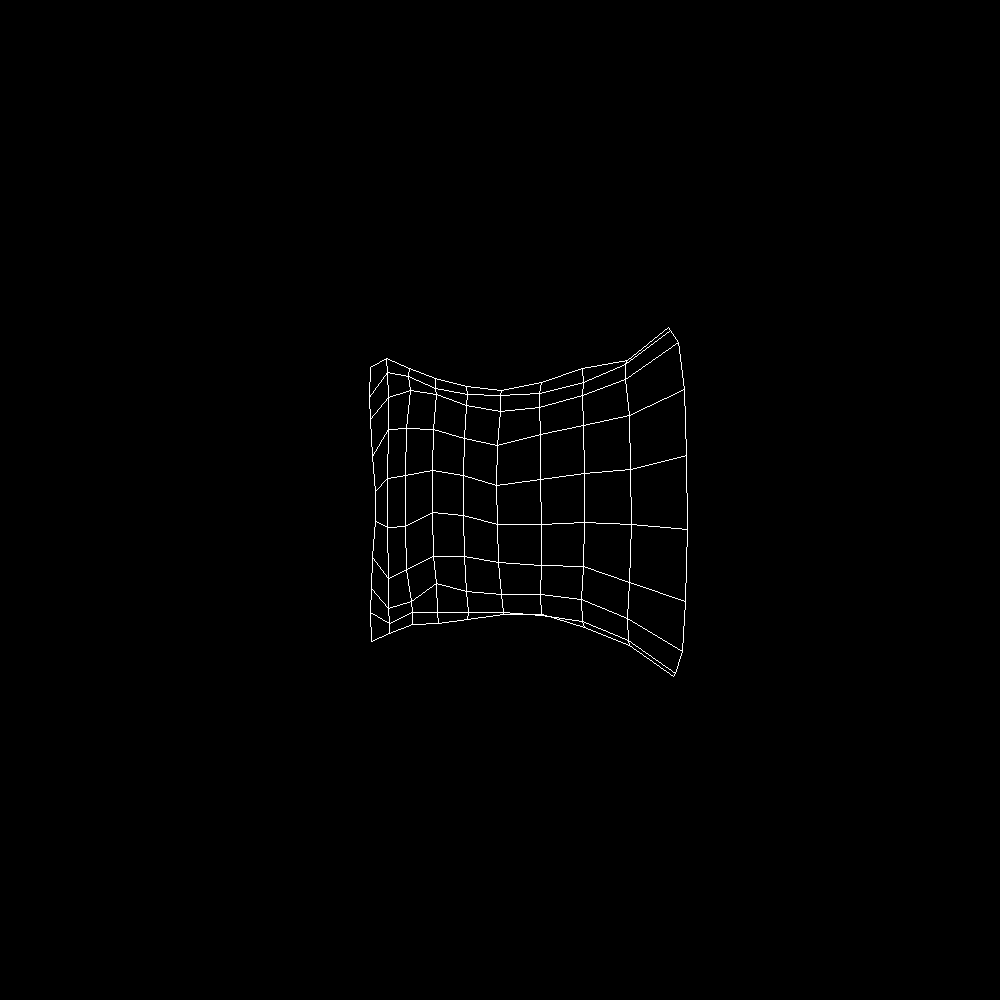
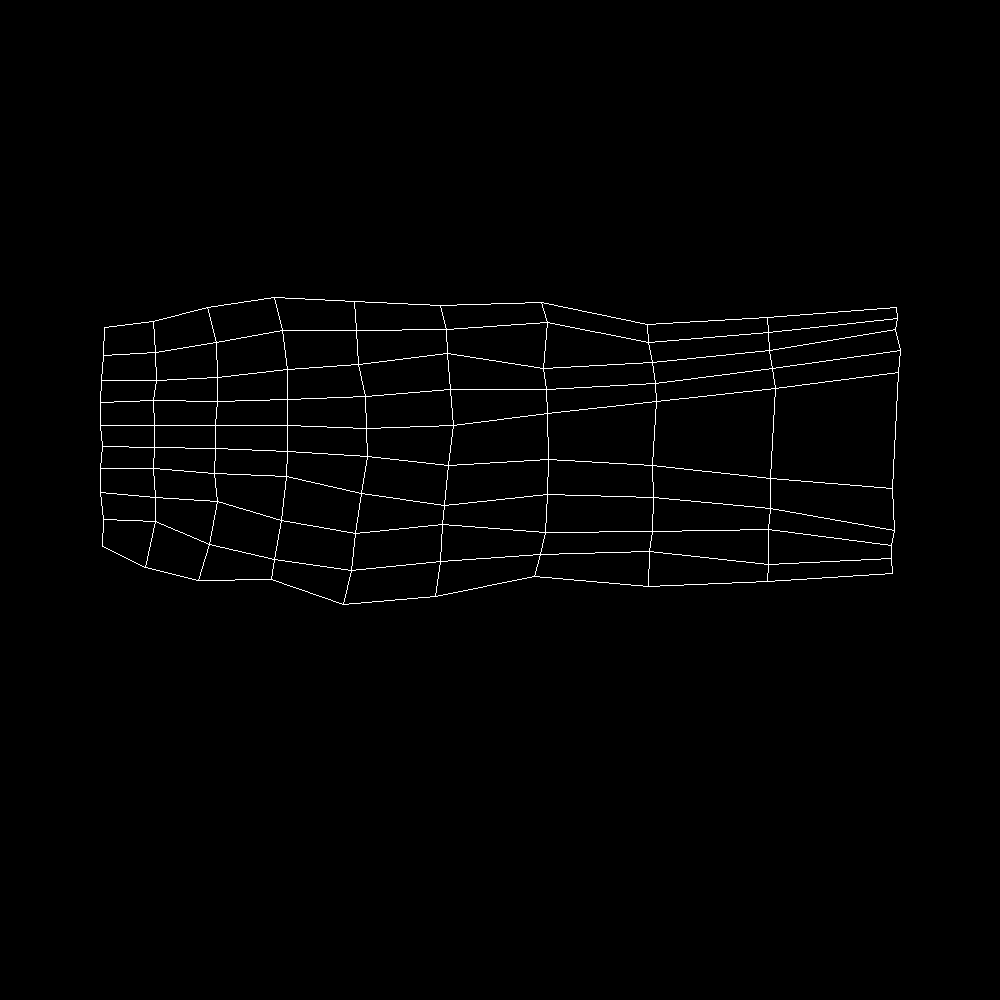
final

diff --git a/main.cpp b/main.cpp
@@ -18,6 +18,7 @@ void Draw2DManifold(Mat &dataMatrix, char const * name, int nSamplesI, int nSamp
 Mat reducePCA(Mat &dataMatrix, unsigned int dim);
 Mat reduceIsomap(Mat &dataMatrix, unsigned int dim);
 Mat reduceLLE(Mat &dataMatrix, unsigned int dim);
+template<typename T> T minLch(T a, T b);
 
 int main(int argc, char** argv)
 {
@@ -42,12 +43,12 @@ int main(int argc, char** argv)
 	Draw3DManifold(dataMatrix, "3D Points",nSamplesI,nSamplesJ);
 	
 	// PCA
-	//Mat dataPCA = reducePCA(dataMatrix,2);
-	//Draw2DManifold(dataPCA,"PCA",nSamplesI,nSamplesJ);
+	Mat dataPCA = reducePCA(dataMatrix,2);
+	Draw2DManifold(dataPCA,"PCA",nSamplesI,nSamplesJ);
 	
 	// Isomap
-	//Mat dataIsomap = reduceIsomap(dataMatrix,2);
-	//Draw2DManifold(dataIsomap,"ISOMAP",nSamplesI,nSamplesJ);
+	Mat dataIsomap = reduceIsomap(dataMatrix,2);
+	Draw2DManifold(dataIsomap,"ISOMAP",nSamplesI,nSamplesJ);
 	
 	//LLE
 	//Mat dataLLE = reduceLLE(dataMatrix,2);
@@ -61,7 +62,39 @@ int main(int argc, char** argv)
 
 Mat reducePCA(Mat &dataMatrix, unsigned int dim)
 {
-	return dataMatrix;
+	Mat PCAmat = dataMatrix.clone();
+	// SALIENT: NORMALIZATION!!
+	//cout << PCAmat << endl;
+	//cout << mean(PCAmat) << endl;
+	Mat PCAnorm;
+	reduce(PCAmat, PCAnorm, 0, CV_REDUCE_AVG);
+	//cout << PCAnorm << endl;
+	Mat tmp(dataMatrix.rows, 1, CV_64F);
+	tmp.setTo(1);	//set all to 1
+	PCAnorm = tmp*PCAnorm;
+	//cout << PCAnorm << endl;
+	PCAmat = PCAmat - PCAnorm;
+	//cout << PCAmat << endl;
+	SVD Proc(PCAmat);	// SVD decomposition
+	Mat umat = Proc.u;	// get U and W
+	Mat wmat = Proc.w;
+	//cout << "src size:" << dataMatrix.size() << endl;
+	//cout << "u size:" << umat << endl;
+	//cout << "w size:" << wmat << endl;
+	Mat wprime(dim, dim, CV_64F);	// extract U' and W'
+	Mat uprime(PCAmat.rows, dim, CV_64F);
+	wprime.setTo(0);
+	uprime.setTo(0);
+	wprime = Mat::diag(wmat.rowRange(0,dim));
+	uprime = umat.colRange(0, dim);
+	//cout << "u':" << uprime << endl << "w':" << wprime << endl;
+	PCAmat = uprime*wprime;
+	//cout << "lower dim size:" << PCAmat.size() << endl;
+	//cout << "PCAmat:" << PCAmat << endl;
+	// scale mat to (-0.5,0.5) for display....that is why I love python more...
+	normalize(PCAmat, PCAmat,0.4,-0.4,NORM_MINMAX);
+	//cout << PCAmat << endl;
+	return PCAmat;
 }
 
 Mat reduceLLE(Mat &dataMatrix, unsigned int dim)
@@ -71,7 +104,91 @@ Mat reduceLLE(Mat &dataMatrix, unsigned int dim)
 
 Mat reduceIsomap(Mat &dataMatrix, unsigned int dim)
 {
-	return dataMatrix;
+	// form distance matrix
+	int KNN_win = 10;	//knn window size
+	int r = dataMatrix.rows;
+	Mat Dist = Mat(r, r, CV_64F);
+
+	double tmp = 0;
+	for (int i = 0;i < r;i++) {
+		for (int j = i;j < r; j++) {
+			tmp = norm(dataMatrix.row(i), dataMatrix.row(j));
+			Dist.at<double>(i, j) = tmp;
+			Dist.at<double>(j, i) = tmp;
+		}
+	}
+	//cout << "Dist:" << endl;
+	//cout << Dist << endl;
+	// k nearest neighbour
+	Mat KNN(r, r, CV_64F);
+	Mat DistCopy = Dist.clone();
+	KNN.setTo(10000);
+	for (int i = 0;i < r;i++) {
+		Mat row_temp = DistCopy.row(i);
+		// find 10 smallest values in DistCopy and move to KNN
+		for (int j = 0;j < KNN_win+1 ;j++) {
+			double min, max;
+			Point minloc, maxloc;
+			minMaxLoc(row_temp, &min, &max, &minloc, &maxloc);
+			KNN.at<double>(i, minloc.x) = min;
+			row_temp.at<double>(minloc) = 10000;
+		}
+	}
+	//cout << "KNN:" << endl;
+	//cout << KNN << endl;
+	// extract shortest path
+	//TODO
+	for (int i = 0;i < r;i++) {
+		for (int j = 0;j < r;j++) {
+			for (int k = 0;k < r;k++) {
+				KNN.at<double>(i, j) = minLch(KNN.at<double>(i, j), KNN.at<double>(i, k)+KNN.at<double>(k, j));
+			}
+		}
+	}
+	//cout << "KNN shortest path" << endl;
+	//cout << KNN << endl;
+	// make sure dissimilarity
+	
+	for (int i = 0;i < r;i++) {
+		for (int j = 0;j < i;j++) {
+			KNN.at<double>(j, i) = KNN.at<double>(i, j);
+		}
+	}
+	
+	// MDS
+	Mat distSquare;
+	multiply(KNN, KNN, distSquare);
+	distSquare *= -0.5;
+	double sumAll = sum(distSquare)[0];
+	sumAll /= r*r;
+	Mat B(r, r, CV_64F);
+	B.setTo(0.0);
+	double sumCol = 0, sumRow = 0;
+	for (int i = 0;i < r; i++) {
+		sumRow = sum(distSquare.row(i))[0];
+		sumRow /= r;
+		for (int j = 0;j < r;j++) {
+			sumCol = sum(distSquare.col(j))[0];
+			sumCol /= r;
+			B.at<double>(i, j) = distSquare.at<double>(i, j) + sumAll - sumRow - sumCol;
+		}
+	}
+
+	//cout << "B:" << endl;
+	//cout << B << endl;
+	// eigen analysis
+	Mat eVal, eVec;
+	eigen(B, eVal, eVec);
+	//cout << eVec << endl;
+	eVec = eVec.rowRange(0, 2);
+	eVal = eVal.diag(eVal.rowRange(0,2));
+	//cout << eVec << endl;
+	sqrt(eVal, eVal);
+	Mat Y = eVal*eVec;
+	//cout << "Y:" << endl;
+	//cout << Y << endl;
+	normalize(Y.t(), Y, 0.4, -0.4,NORM_MINMAX);
+	return Y;
 }
 
 void Draw3DManifold(Mat &dataMatrix, char const * name, int nSamplesI, int nSamplesJ)
@@ -141,8 +258,14 @@ void Draw2DManifold(Mat &dataMatrix, char const * name, int nSamplesI, int nSamp
 	}
 	
 
-	namedWindow( name, WINDOW_AUTOSIZE );
+	namedWindow( name, WINDOW_NORMAL );
 	imshow( name, origImage ); 
 	imwrite( (String(name) + ".png").c_str(),origImage);
 }
 
+//helper function
+template<typename T>
+T minLch(T a, T b) {
+	if (a < b) return a;
+	else return b;
+}
